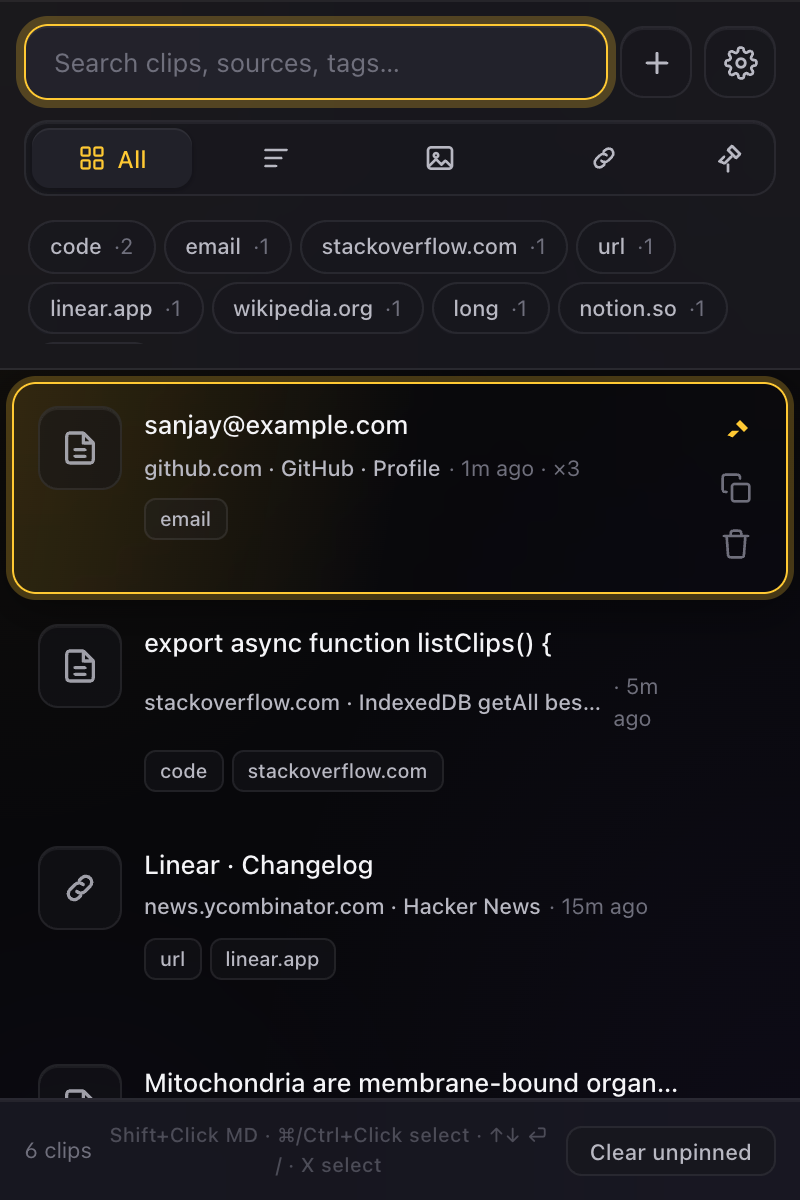
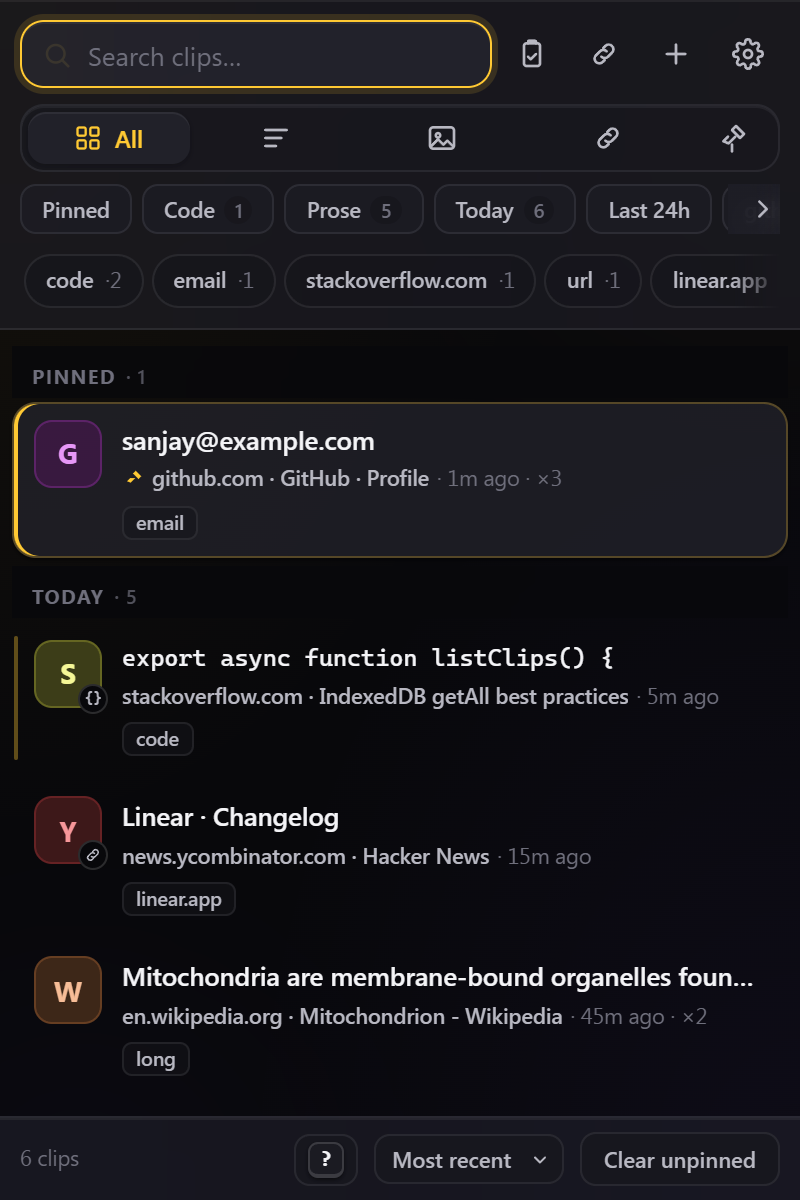
docs: refresh screenshots for the redesign, changelog entry
- scripts/screenshot.mjs now also composes the README hero (dark list,
  light list, settings) so it can be regenerated in one run.
- README, website and store screenshots show the new UI.
- CHANGELOG Unreleased lists the redesign and the classifier fixes.

diff --git a/CHANGELOG.md b/CHANGELOG.md
@@ -4,7 +4,18 @@ All notable changes to Context Clipboard. The version lives in `package.json`; t
 
 ## Unreleased
 
+### Changed
+- **Redesigned popup.** A compact header leaves twice as many clips in view. Each row gets a colored monogram for its source site (no favicons are fetched) and stays on one line of metadata. Row actions float in on hover, and code previews render in monospace.
+- Quieter pinned rows and day headers, a one-line footer with a `?` shortcuts button, and a selection bar that fits the popup.
+- The detail view's toolbar no longer runs off-screen. Prose renders in the UI typeface, and the clip facts sit in a compact label/value grid.
+- A friendly "no results" screen with starter operators replaces the wall of ~40 operators. The cheatsheet uses a single column, and settings are a grouped list.
+- The in-page palette uses the same site monograms instead of emoji.
+
 ### Fixed
+- Prose sentences containing a comma were treated as CSV rows (`is:csv`, the Tabular chip, "Copy as CSV row").
+- JavaScript `export function` snippets were detected as shell.
+- The settings footer showed a hard-coded old version.
+- The Auto-OCR toggle is disabled with a note while OCR is unavailable.
 - **"Copy as CSV row" kept quoted cells intact.** A row like `"Smith, John",42` used to split into three broken cells and re-escape them as `"""Smith","John""",42`. Comma rows now follow RFC 4180 quoting. The TSV row, the Markdown table row and bulk "Copy selected as CSV" are fixed the same way.
 - **CSV export can no longer carry spreadsheet formulas.** Clip text, page titles and nearby text come from arbitrary web pages. Exported cells that start with `=`, `+`, `-`, `@`, tab or CR now get a leading `'`, so a planted `=HYPERLINK(...)` doesn't run when the file is opened in Excel or Sheets (CWE-1236).
 - The extension manifests reported `0.6.2` while the release was `0.6.3`.
